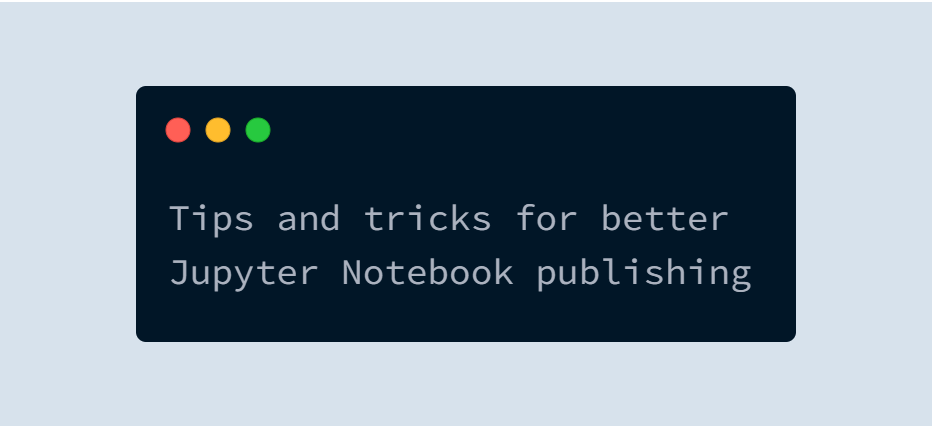
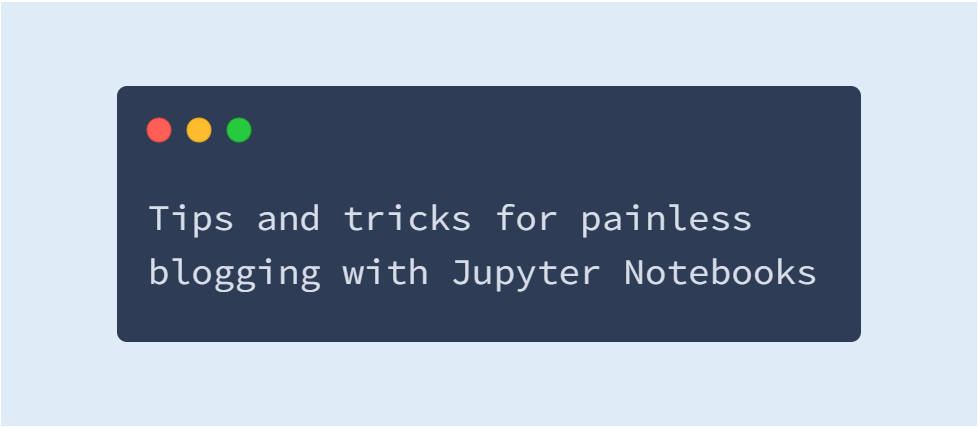
updated last post featured image

diff --git a/posts/blogging_with_jupyter_notebooks/index.html b/posts/blogging_with_jupyter_notebooks/index.html
@@ -223,7 +223,7 @@ Still, I would like to find a way to eliminate this part of the process. I think
 </span></code></pre></td>
 <td style="vertical-align:top;padding:0;margin:0;border:0;;width:100%">
 <pre style="color:#f8f8f2;background-color:#282a36;-moz-tab-size:4;-o-tab-size:4;tab-size:4"><code class="language-YAML" data-lang="YAML">---
-<span style="color:#ff79c6">title</span>: Tips and tricks for painless Jupyter notebook publishing
+<span style="color:#ff79c6">title</span>: Tips and tricks for painless blogging with Jupyter notebooks
 <span style="color:#ff79c6">date</span>: 2020-04-28T13:45:02<span style="color:#bd93f9">+05</span>:<span style="color:#bd93f9">30</span>
 <span style="color:#ff79c6">draft</span>: False
 <span style="color:#ff79c6">toc</span>: <span style="color:#ff79c6">true</span>
